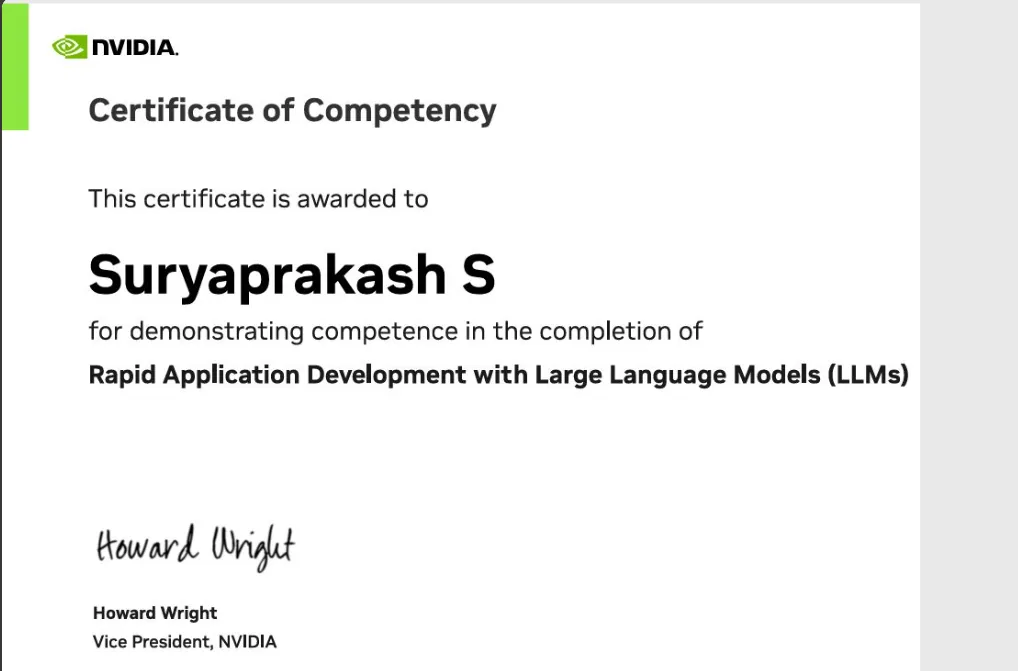
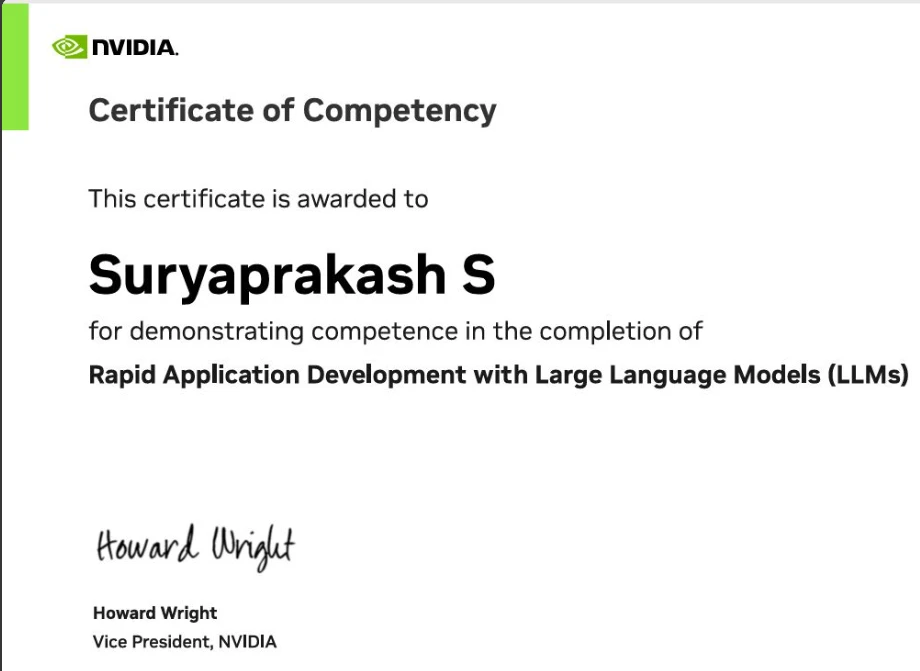
profie check

diff --git a/prt/src/App.jsx b/prt/src/App.jsx
@@ -171,24 +171,33 @@ function SkillCard({ item, index }) {
 function App() {
   const [currentIndex, setCurrentIndex] = useState(0);
   const [showIntro] = useState(() => {
-    const lastIntroTime = localStorage.getItem("lastIntroTime");
-    const now = Date.now();
-    const cooldown = 1 * 60 * 1000; // 1 minute cooldown
-    const shouldShow = !lastIntroTime || now - parseInt(lastIntroTime) > cooldown;
-    if (shouldShow) {
-      localStorage.setItem("lastIntroTime", now.toString());
+    try {
+      const lastIntroTime = localStorage.getItem("lastIntroTime");
+      const now = Date.now();
+      const cooldown = 1 * 60 * 1000; // 1 minute cooldown
+      const shouldShow = !lastIntroTime || now - parseInt(lastIntroTime, 10) > cooldown;
+      if (shouldShow) {
+        localStorage.setItem("lastIntroTime", now.toString());
+      }
+      return shouldShow;
+    } catch {
+      return false;
     }
-    return shouldShow;
   });
   const [activeSkillCategory, setActiveSkillCategory] = useState(0);
   const [activeEducationIndex, setActiveEducationIndex] = useState(0);
   const [copiedToast, setCopiedToast] = useState(false);
 
   const handleCopyEmail = (email) => {
-    if (email.includes("@")) {
-      navigator.clipboard?.writeText(email);
-      setCopiedToast(true);
-      setTimeout(() => setCopiedToast(false), 2200);
+    if (email && email.includes("@")) {
+      if (navigator.clipboard && typeof navigator.clipboard.writeText === "function") {
+        navigator.clipboard.writeText(email)
+          .then(() => {
+            setCopiedToast(true);
+            setTimeout(() => setCopiedToast(false), 2200);
+          })
+          .catch(() => {});
+      }
     }
   };
 
@@ -196,7 +205,7 @@ function App() {
     <>
       {showIntro && <HelloIntro />}
       <ResumeDrawer />
-      <main className="h-screen overflow-y-auto snap-y snap-mandatory bg-yellow-400 select-none scroll-smooth text-black">
+      <main className="h-screen w-full overflow-y-auto overflow-x-hidden snap-y snap-mandatory bg-yellow-400 select-none scroll-smooth text-black">
         {/* Hero Section */}
       <section className="h-screen w-full snap-start relative flex items-center overflow-hidden">
         {/* Background & foreground sketch line art overlay */}

diff --git a/prt/src/CardSwap.jsx b/prt/src/CardSwap.jsx
@@ -114,9 +114,13 @@ const CardSwap = ({
         node.removeEventListener('mouseenter', pause);
         node.removeEventListener('mouseleave', resume);
         clearInterval(intervalRef.current);
+        tlRef.current?.kill();
       };
     }
-    return () => clearInterval(intervalRef.current);
+    return () => {
+      clearInterval(intervalRef.current);
+      tlRef.current?.kill();
+    };
     // eslint-disable-next-line react-hooks/exhaustive-deps
   }, [cardDistance, verticalDistance, delay, pauseOnHover, skewAmount, easing]);
 

diff --git a/prt/src/ImagePeel.jsx b/prt/src/ImagePeel.jsx
@@ -44,7 +44,7 @@ export default function ImagePeel({ images = [], activeIndex: controlledIndex, o
             opacity: 0,
             transition: { duration: 0.7, ease: "easeInOut" } 
           }}
-          className="absolute inset-0 z-20"
+          className="absolute inset-0 z-20 [backface-visibility:hidden]"
           style={{ transformOrigin: "left center" }}
         >
           <img

diff --git a/prt/src/AchievementsSection.jsx b/prt/src/AchievementsSection.jsx
@@ -20,7 +20,7 @@ const ACHIEVEMENT_DATA = [
     status: "Winner",
     desc: "Secured 1st Place at NGP Institute of Technology for outstanding innovation & technical excellence in AI towards Sustainable Development Goals.",
     image: achieveNgp,
-    position: "center bottom",
+    position: "center center",
   },
   {
     title: "My First AI Workshop",

diff --git a/prt/src/index.css b/prt/src/index.css
@@ -1,5 +1,16 @@
 @import "tailwindcss";
 
+html,
+body,
+#root {
+  background-color: #000;
+  margin: 0;
+  padding: 0;
+  width: 100%;
+  min-height: 100%;
+  overflow-x: hidden;
+}
+
 :root {
   --font-cursive: "Pinyon Script", cursive;
   --font-display: "Inter", sans-serif;
